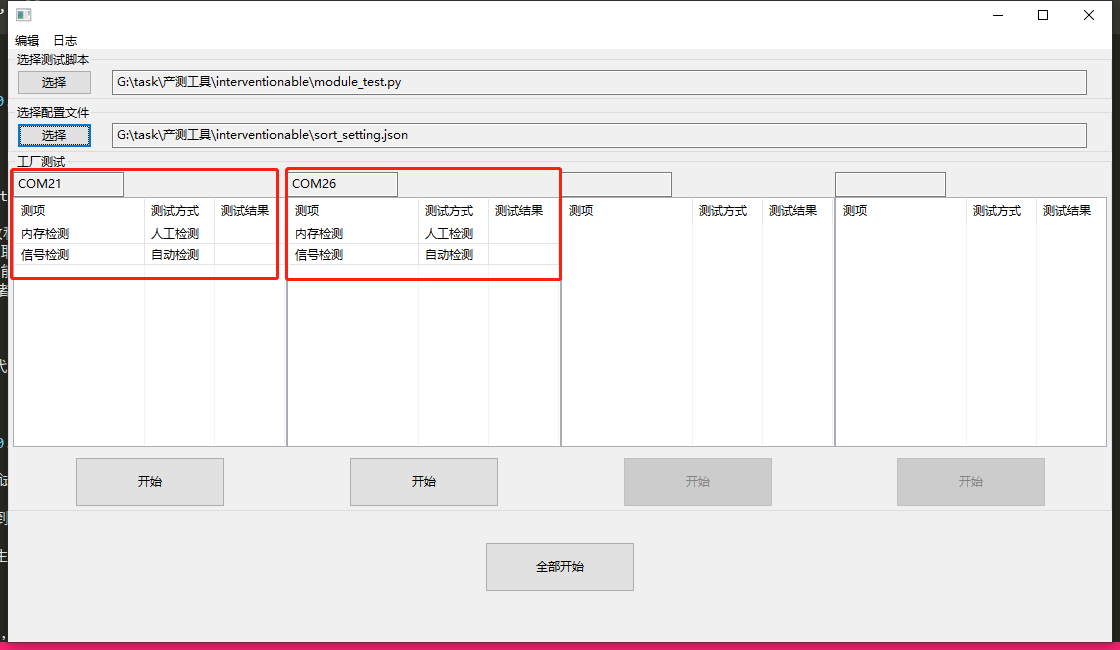
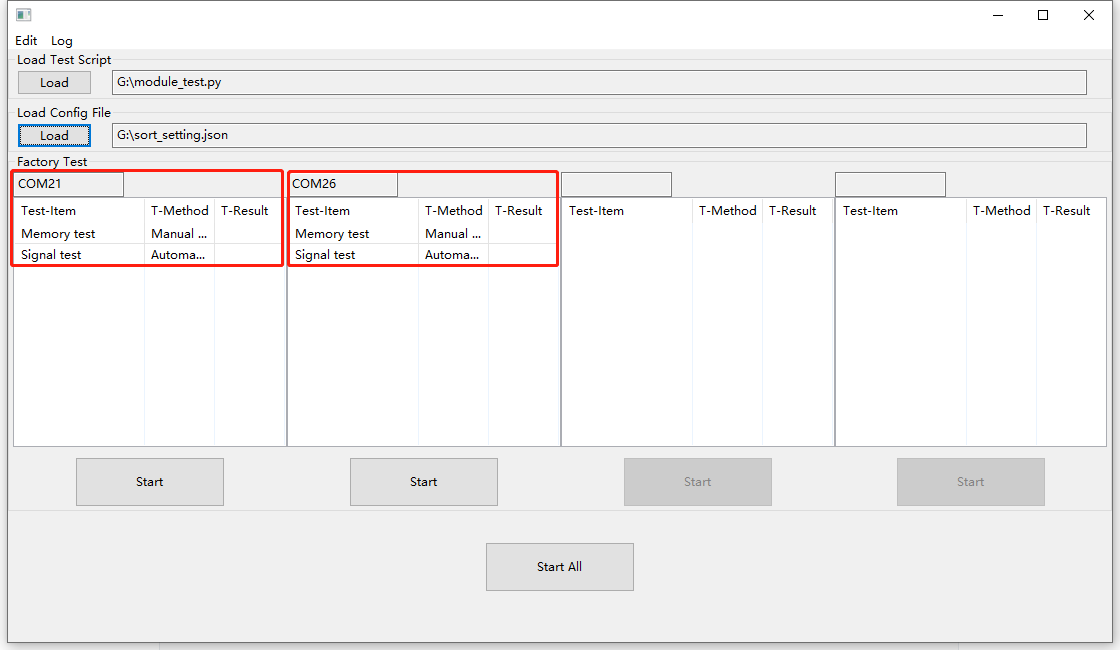
英文翻译

diff --git a/main.py b/main.py
@@ -281,9 +281,9 @@ class FactoryFrame(wx.Frame):
                         ListCtrl.InsertItem(j, j)
                         ListCtrl.SetItem(j, 0, self.testMessages[j])
                         if element[1] == 1:
-                            ListCtrl.SetItem(j, 1, "人工检测")
+                            ListCtrl.SetItem(j, 1, _(u"人工检测"))
                         else:
-                            ListCtrl.SetItem(j, 1, "自动检测")
+                            ListCtrl.SetItem(j, 1, _(u"自动检测"))
         except Exception as e:
             print(e)
             wx.MessageBox(_(u'请选择正确的配置文件'), u'提示', wx.YES_DEFAULT | wx.ICON_INFORMATION)
@@ -369,9 +369,9 @@ class FactoryFrame(wx.Frame):
                             ListCtrl.InsertItem(j, j)
                             ListCtrl.SetItem(j, 0, self.testMessages[j])
                             if element[1] == 1:
-                                ListCtrl.SetItem(j, 1, "人工检测")
+                                ListCtrl.SetItem(j, 1, _(u"人工检测"))
                             else:
-                                ListCtrl.SetItem(j, 1, "自动检测")
+                                ListCtrl.SetItem(j, 1, _(u"自动检测"))
                 else:
                     self.button_start_list[i].Enable(False)
 
@@ -412,7 +412,7 @@ class FactoryFrame(wx.Frame):
         length = len(self.testFunctions)
         for i, testFunction in enumerate(self.testFunctions):
             try:
-                self.ListCtrl_list[ID].SetItem(i, 2, "测试中")
+                self.ListCtrl_list[ID].SetItem(i, 2, _(u"测试中"))
                 self.ListCtrl_list[ID].SetItemBackgroundColour(i, "Yellow")
 
                 message = self.testMessages[i]
@@ -440,17 +440,17 @@ class FactoryFrame(wx.Frame):
                 boolean = ["False"]
 
             if testFunction[1] == 1:
-                dlg  = wx.MessageBox("      当前测试项为:  " + message + "\r\n\r\n      请确认该测试项 【是否通过】", self.port_ctrl_list[ID].GetValue(), wx.YES_NO)
+                dlg  = wx.MessageBox(_(u"      当前测试项为:  ") + message + _(u"\r\n\r\n      请确认该测试项 【是否通过】"), self.port_ctrl_list[ID].GetValue(), wx.YES_NO)
                 if dlg == wx.YES:
                     boolean = ["True"]
                 else:
                     boolean = ["False"]
 
             if boolean == ["False"]:
-                self.ListCtrl_list[ID].SetItem(i, 2, "不通过")
+                self.ListCtrl_list[ID].SetItem(i, 2, _(u"不通过"))
                 self.ListCtrl_list[ID].SetItemBackgroundColour(i, "Red")
             else:
-                self.ListCtrl_list[ID].SetItem(i, 2, "通过")
+                self.ListCtrl_list[ID].SetItem(i, 2, _(u"通过"))
                 self.ListCtrl_list[ID].SetItemBackgroundColour(i, "Green")
 
             ret_result += boolean
@@ -458,18 +458,18 @@ class FactoryFrame(wx.Frame):
         test_results = []
         for i in ret_result:
             if i == "True":
-                test_results.append("通过")
+                test_results.append(_(u"通过"))
             elif i == "False":
-                test_results.append("不通过")
+                test_results.append(_(u"不通过"))
             else:
                 test_results.append(i)
 
         test_method = []
         for i in self.testFunctions:
             if i[1] == 1:
-                test_method.append("人工测试")
+                test_method.append(_(u"人工检测"))
             else:
-                test_method.append("自动测试")
+                test_method.append(_(u"自动检测"))
 
         # TODO excel写入不要列表形式
         if "False" not in ret_result:
@@ -555,6 +555,7 @@ class FactoryFrame(wx.Frame):
 class MyApp(wx.App):
     languageTab = locale.getdefaultlocale()[0]
     print("languageTab: ", languageTab)
+    languageTab = "en"
     # 根据系统语言自动设置语言
     if languageTab == "zh_CN":
         t = gettext.translation('Chinese', PROJECT_ABSOLUTE_PATH + "\\locale", languages=["zh_CN"])

diff --git a/README.md b/README.md
@@ -1,22 +1,19 @@
 # QuecPython产测工具使用指导手册
 
-## 文档历史
-
-| 版本 | 日期       | 作者 | 变更描述     |
-| ---- | ---------- | ---- | ------------ |
-| 1.0  | 2023-08-16 | 郭臻 | 初版         |
-
 ## 简介
 
-QuecPython产测工具是专用于QuecPython项目模块出厂测试的工具，方便对出厂前已经烧录正式固件的模块进行相关的功能测试，本文档主要介绍如何使用该工具，在电脑使用以下任一种操作系统时，该工具可直接使用
-
-- **Windows7**
-- **Windows10**
-- **Windows11**
+QuecPython产测工具是专用于QuecPython项目对模块功能测试的工具，方便对出厂前已经烧录正式固件的模块进行相关的功能测试，本文档主要介绍如何使用该工具，在电脑使用Windows7及以上系统都可使用。
 
 适用模块：
 
 所有使用QuecPython开发的模块均可使用
+
+## 功能介绍
+1. 支持QuecPython项目功能测试
+2. 支持4台设备同步测试
+3. 支持自动测试
+3. 支持人工断点测试
+
 
 ## 如何拉取仓库
 
@@ -46,35 +43,52 @@ git clone --recurse-submodules https://github.com/QuecPython/FactoryTool.git -b 
 
 **导入模块**：导入测试中用到的python库
 
-**测试函数**：自行编写测试函数，函数名可以自定义，但是需要是静态方法且无法传参，函数体内容根据测试需求自定义，函数需要有返回值，可以是bool或者其他类型（其他类型不会校验测试结果），返回值会在日志中体现，当测试结果不满足预期，需要将测试结果设置为失败时，只需返回布尔值False即可，测试函数案例如下：
+**测试函数**：自行编写测试函数，函数名可以自定义，但是需要是静态方法且无法传参，函数体内容根据测试需求自定义，函数需要有返回值，必须是bool值
+
+测试脚本示例：
 
 ```python
-# 检测sim卡状态正常并且驻网状态为LTE时测试成功，否则返回失败测试结果
-@staticmethod
-def det_signal():
-    if sim.getStatus() == 1:
-        if net.getConfig()[0] == 5:
+# Write the modules that need to be imported here
+import sim
+import net
+import uos
+import utime
+
+class TestBase(object):
+    # ------This area is for testing code------
+    @staticmethod
+    def det_signal():
+        utime.sleep(2)
+        if sim.getStatus() == 1:
+            if net.getConfig()[0] == 5:
+                return True
+            else:
+                return False
+        else:
+            return False
+
+    @staticmethod
+    def det_file_space():
+        utime.sleep(2)
+        if uos.statvfs('usr')[3] > 5:
             return True
-     else:
-        return False
+        else:
+            return False
+    # ------This area is for testing code------
 ```
-
-测试脚本示例：
-
-![1692598910646](./media/1692598910646.jpg)
 
 ## 配置文件
-配置文件为json格式
-```json
-#             测项名称     function      测试方式: 1为人工测试 0为自动测试
-{
-    "info": [["内存检测", "det_file_space", 1],
-             ["信号检测", "det_signal", 0]]
-}
-```
+配置文件为json文件，需要配置三维数据，分别为: 测项名称， 测项的方法名称， 测试方式（1为人工测试 0为自动测试）
+
 测试脚本示例：
 
-![1692599116860](./media/1692599116860.jpg)
+```json
+//             测项名称     function      测试方式: 1为人工测试 0为自动测试
+{
+    "info": [["Memory test", "det_file_space", 1],
+             ["Signal test", "det_signal", 0]]
+}
+```
 
 
 ## 测试原理
@@ -88,22 +102,37 @@ def det_signal():
 
 ## 测试步骤
 
-**步骤一**：编辑测试**module_test.py**代码 和 配置文件**sort_setting.json**，测试代码和配置文件案例如上图所示
+**步骤一**：编辑测试文件和配置文件
 
-**步骤二**：打开 **Factory Tool**，点击 **选择** 按钮，分别选择上一步编辑好的测试代码和配置文件，若有检测到串口，则该串口下会显示每一项测试名称以及测试方式
+编辑测试**module_test.py**代码 和 配置文件**sort_setting.json**，测试代码和配置文件案例如上图所示
+
+**步骤二**：打开工具，选择测试文件和配置文件
+
+打开工具后，点击 **选择** 按钮，分别选择上一步编辑好的测试代码和配置文件，若有检测到串口，则该串口下会显示每一项测试名称以及测试方式
 
 ![1692599729648](./media/1692599729648.jpg)
 
-**步骤三**：点击 **全部开始** 按钮开始测试所有已接入的模块，也可以通过单独点击端口对应列的 **开始** 按钮来测试某一个模块
+**步骤三**：开始测试
+
+点击 **全部开始** 按钮： 开始测试所有已接入的模块
+
+点击 **开始** 按钮： 开始测试对应的那一个模块
 
 若是人工检测会弹窗提示是否成功，可人工点击 **是/否** 来确认该项结果
 ![1692599919725](./media/1692599919725.jpg)
 
-**步骤四**：测试完成后可在测试结果栏位看到测试结果
+**步骤四**：查看测试结果
+
+可在测试结果栏位直接看到测试结果：
+1. 通过： 绿色背景色，测试结果栏位标记： 通过
+2. 不通过： 红色背景色，测试结果栏位标记： 不通过 
+3. 测试中： 黄色背景色，表示该测项正在检测中
 
 ![1692599801694](./media/1692599801694.jpg)
 
-**步骤五**：测试完成后会在工具同级目录下生成**Test-Result.xlsx**文件，包含测试项目内容以及测试结果日志
+**步骤五**：查看测试日志
+
+在工具同级目录下生成**Test-Result.xlsx**文件，包含测试项目内容以及测试结果日志
 
 ## 测试结果
 
